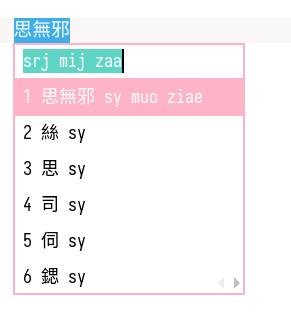
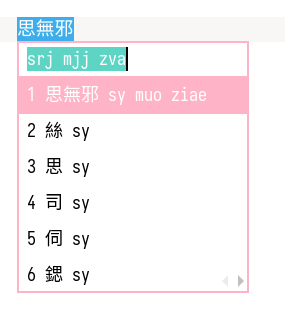
Rearrange vowels & finals, respecting their freq
v0.0.6

Changed region(s): [[0.0281, 0.0283, 0.8982, 0.934]]

diff --git a/README.md b/README.md
@@ -37,7 +37,7 @@ __注意__：此為 alpha 版，音到鍵的對應仍有些調整空間；鍵位
 
 | 左五         | 左四        | 左三         | 左二          | 左一        | 右一         | 右二         | 右三         | 右四         | 右五        |
 | ------------ | ----------- | ------------ | ------------- | ----------- | ------------ | ------------ | ------------ | ------------ | ----------- |
-| 影 q<br />Q  | 云<br />W   | 影 q<br />E  | 清 tsh<br />R | 端 t<br />T | 透 th<br />Y | 疑 ng<br />U | 溪 kh<br />I | 滂 ph<br />O | 幫 p<br />P |
+| 影 q<br />Q  | 云 ∅<br />W | 影 q<br />E  | 清 tsh<br />R | 端 t<br />T | 透 th<br />Y | 疑 ng<br />U | 溪 kh<br />I | 滂 ph<br />O | 幫 p<br />P |
 | 從 dz<br />A | 心 s<br />S | 定 d<br />D  | 精 ts<br />F  | 羣 g<br />G | 曉 h<br />H  | 以 j<br />J  | 見 k<br />K  | 來 l<br />L  |             |
 | 邪 z<br />Z  | 匣 x<br />X | 船 zj<br />C | 書 sj<br />V  | 並 b<br />B | 泥 n<br />N  | 明 m<br />M  |              |              |             |
 
@@ -62,19 +62,19 @@ __注意__：此為 alpha 版，音到鍵的對應仍有些調整空間；鍵位
 
 ### 鍵位
 
-| 左五                 | 左四                  | 左三                | 左二                 | 左一                  | 右一                | 右二               | 右三                | 右四                 | 右五                 |
-| -------------------- | --------------------- | ------------------- | -------------------- | --------------------- | ------------------- | ------------------ | ------------------- | -------------------- | -------------------- |
-| <br />Q              | N上<br />-nq<br />W   | N入<br />-t<br />E  | N平-n<br />R         | N去<br />-nh<br />T   | J去<br />-jh<br />Y | J平<br />-j<br />U | J上<br />-jq<br />I | \*去<br />-*h<br />O | \*入<br />-*k<br />P |
-| \*平<br />-*<br />A  | NG上<br />-ngq<br />S | NG入<br />-k<br />D | NG平<br />-ng<br />F | NG去<br />-ngh<br />G | ∅去<br />-∅h<br />H | ∅平<br />-∅<br />J | ∅上<br />-∅q<br />K | W上<br />-wq<br />L  |                      |
-| \*上<br />-*q<br />Z | M上<br />-mq<br />X   | M入<br />-p<br />C  | M平<br />-m<br />V   | M去<br />-mh<br />B   | W去<br />-wh<br />N | W平<br />-w<br />M |                     |                      |                      |
+| 左五                 | 左四                | 左三                  | 左二                 | 左一                  | 右一                | 右二               | 右三                | 右四                 | 右五                 |
+| -------------------- | ------------------- | --------------------- | -------------------- | --------------------- | ------------------- | ------------------ | ------------------- | -------------------- | -------------------- |
+| <br />Q              | N入<br />-t<br />E  | N上<br />-nq<br />W   | N平-n<br />R         | N去<br />-nh<br />T   | J去<br />-jh<br />Y | J平<br />-j<br />U | J上<br />-jq<br />I | \*上<br />-*q<br />O | \*去<br />-*h<br />P |
+| \*平<br />-*<br />A  | NG入<br />-k<br />D | NG上<br />-ngq<br />S | NG平<br />-ng<br />F | NG去<br />-ngh<br />G | ∅去<br />-∅h<br />H | ∅平<br />-∅<br />J | ∅上<br />-∅q<br />K | W上<br />-wq<br />L  |                      |
+| \*入<br />-*k<br />Z | M入<br />-p<br />C  | M上<br />-mq<br />X   | M平<br />-m<br />V   | M去<br />-mh<br />B   | W去<br />-wh<br />N | W平<br />-w<br />M |                     |                      |                      |
 
 ```
 Q    W E R T       Y U I    O P
-     上入平去<n  j>去平上 *>去入
+     入上平去<n  j>去平上 *>上去
 A    S D F G       H J K    L
-平<* 上入平去<ng 0>去平上 w>上
+平<* 入上平去<ng 0>去平上 w>上
 Z    X C V B       N M
-上<* 上入平去<m  w>去平
+入<* 入上平去<m  w>去平
 ```
 
 - 中間部分三排對應韻尾三類，左手陽聲韻，右手陰聲韻（惟 w 尾上聲挪至旁邊 L）
@@ -125,22 +125,24 @@ Z    X C V B       N M
 ### 特殊處理
 
 - 「地」dih 單獨編碼為「d-i-jh」，以區別於「視」（常母，d-i-∅h）
-- 「怎」tsoimq（精開一侵上）該音不在切韻音系中，其元音寄於最不常用的 oeu 鍵，編碼為「ts-oeu-mq」
+- 「怎」tsoimq（精開一侵上）該音不在切韻音系中，其元音寄於最不常用的 ui 鍵，編碼為「ts-ui-mq」
 
 ### 鍵位
 
-| 左五       | 左四       | 左三      | 左二      | 左一      | 右一      | 右二      | 右三       | 右四      | 右五      |
-| ---------- | ---------- | --------- | --------- | --------- | --------- | --------- | ---------- | --------- | --------- |
-| wae<br />Q | ou<br />W  | u<br />E  | y<br />R  | ya<br />T | ua<br />Y | yo<br />U | uo<br />I  | o<br />O  | eo<br />P |
-| ae<br />A  | ui<br />S  | wi<br />D | yi<br />F | i<br />G  | ie<br />H | ye<br />J | wie<br />K | ue<br />L |           |
-| oeu<br />Z | wee<br />X | ee<br />C | wa<br />V | a<br />B  | e<br />N  | we<br />M |            |           |           |
+| 左五      | 左四       | 左三      | 左二      | 左一       | 右一       | 右二      | 右三      | 右四       | 右五      |
+| --------- | ---------- | --------- | --------- | ---------- | ---------- | --------- | --------- | ---------- | --------- |
+| ui<br />Q | wi<br />W  | yi<br />E | y<br />R  | wa<br />T  | we<br />Y  | yo<br />U | ye<br />I | wie<br />O | ue<br />P |
+| ya<br />A | a<br />S   | i<br />D  | u<br />F  | ou<br />G  | o<br />H   | uo<br />J | ie<br />K | e<br />L   |           |
+| ua<br />Z | wee<br />X | ee<br />C | ae<br />V | wae<br />B | oeu<br />N | eo<br />M |           |            |           |
 
-- 中排左手 i 類四種元音、右手 ie 類四種，開口靠中間、合口靠兩側，開/合口之內A類靠內、B類靠外
-- 上排中部為其他三等，左手 y/u 右手 yo/uo，中間為左 ya 右 ua
-- 下排中部為一等 (w)a、(w)e
-- 一等 o/eo 在右邊 yo/uo 外側（注意無標記的 o 靠內，有開口標記的 eo 靠外）
-- 一等 ou 在左邊 y/u 外側
-- 二等在左邊緣
+- 左手中排食指為 u，其上為對應的開口 y，其右為對應的一等 ou
+  - 右手對稱，中排食指為 uo，其上為 yo，其左為 o，其下則為 o 對應的開口 eo
+- 左手中排中指為 i，其正上開始往左分別為 yi、wi、ui
+  - 右手對稱，中排中指為 ie，其上開始往右分別為 ye, wie, ue
+- 左手中排無名指為 a，其合口 wa 在食指右上
+  - 右手對稱，中排無名指為 e，其合口 we 在食指左上
+  - 左手小指（即 a 左邊）為 ya，合口 ua 在其下
+- 二等元音在下排連續五鍵
 
 ## 聲明
 
